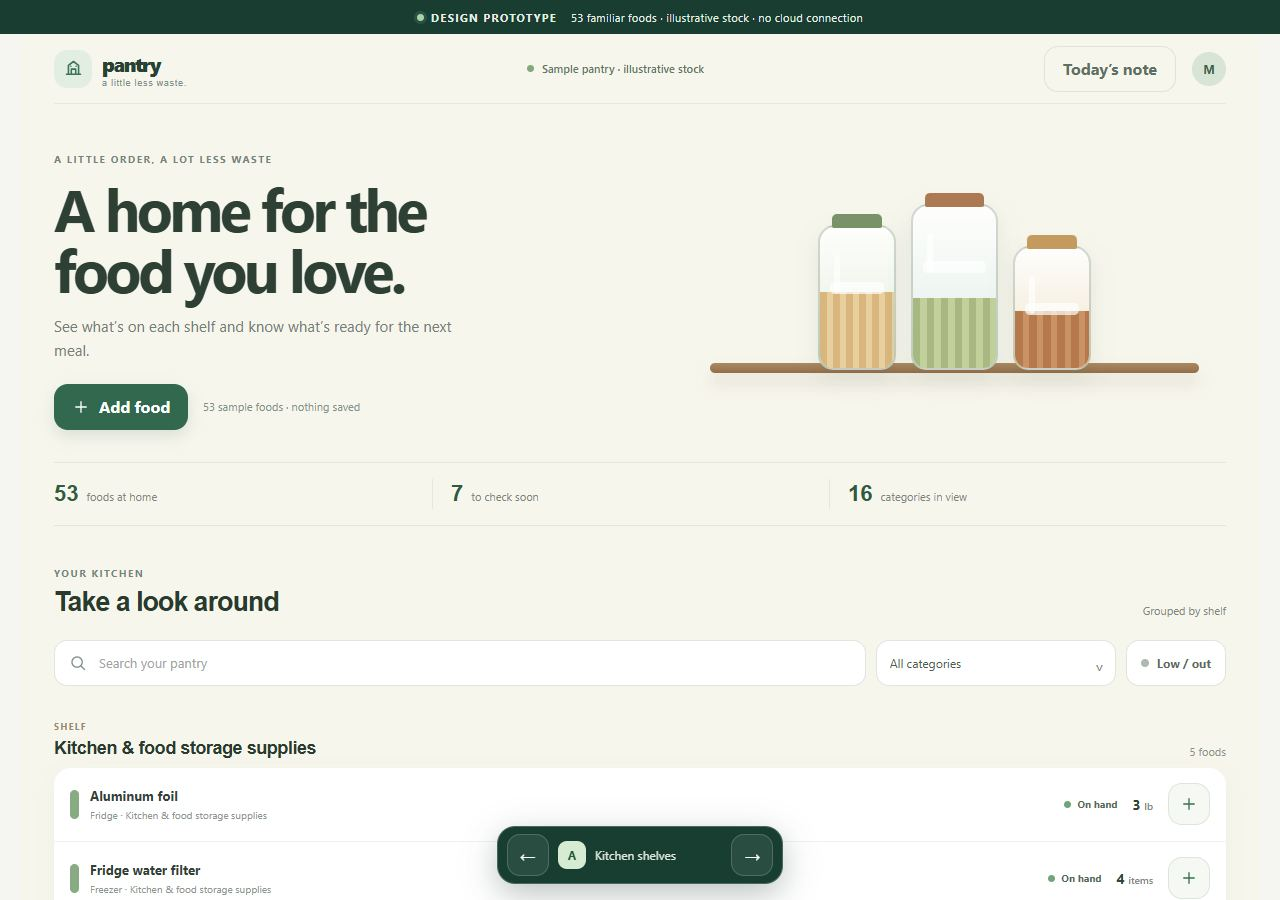
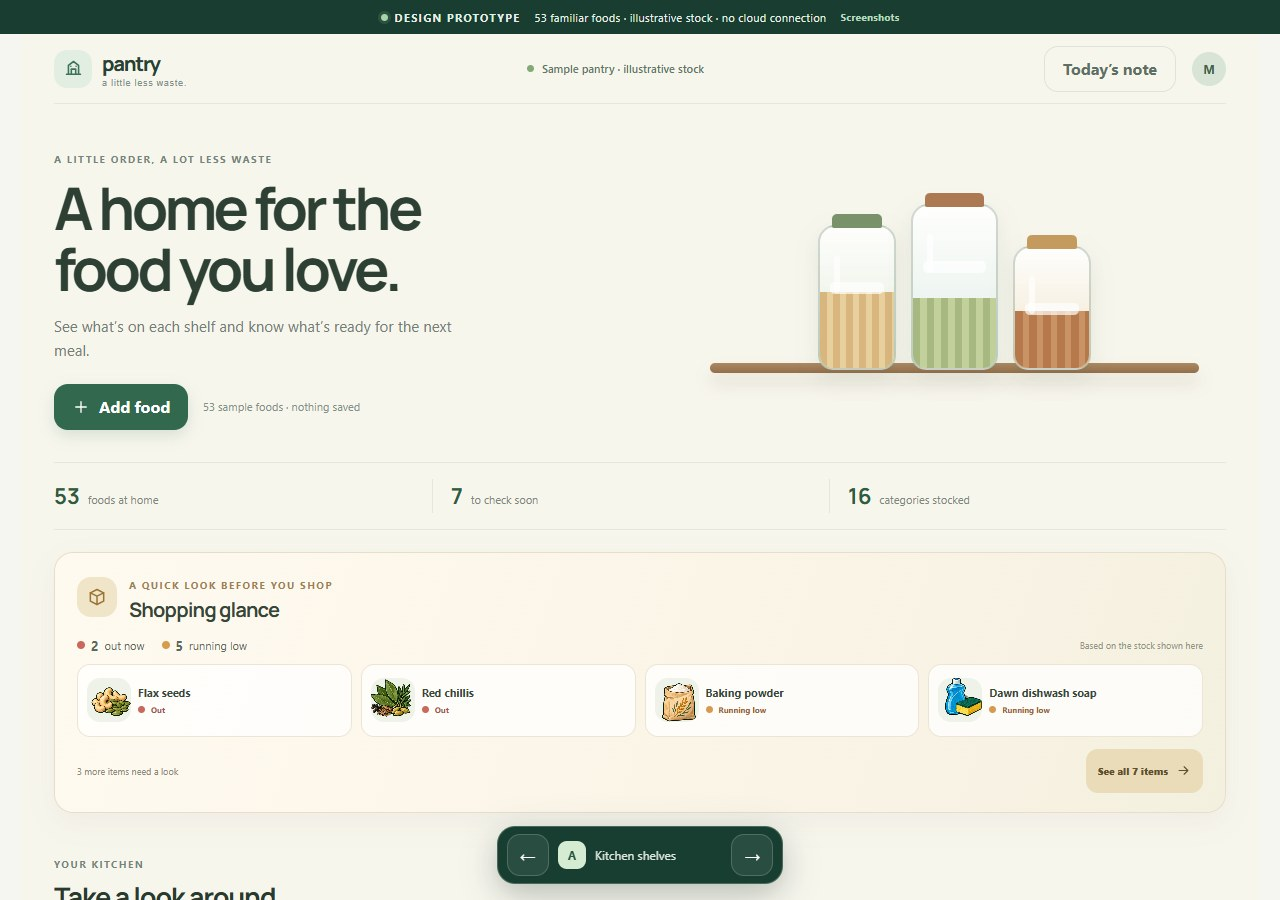
Polish Kitchen shelves shopping glance and illustrations

diff --git a/prototype/VariantA.tsx b/prototype/VariantA.tsx
@@ -2,15 +2,49 @@ import React from 'react';
 import type { PantryItem } from './types.ts';
 import { AddButton, AmountLabel, Brand, EmptyState, Filters, Icon, StatusPill, type VariantProps } from './ui.tsx';
 
-export const VariantA: React.FC<VariantProps> = ({ filtered, search, category, lowOnly, onSearch, onCategory, onLowOnly, onAdd, onRestock }) => {
+export const VariantA: React.FC<VariantProps> = ({ items: allItems, filtered, search, category, lowOnly, onSearch, onCategory, onLowOnly, onAdd, onRestock }) => {
   const groups = [...new Set(filtered.map((item) => item.category))];
+  const needsBuy = allItems.filter((item) => item.level !== 'ready');
+  const outNow = needsBuy.filter((item) => item.level === 'out');
+  const runningLow = needsBuy.filter((item) => item.level === 'low');
+  const glanceItems = [...outNow, ...runningLow].slice(0, 4);
+  const showAllNeeds = () => {
+    onSearch('');
+    onCategory('all');
+    if (needsBuy.length ? !lowOnly : lowOnly) onLowOnly();
+    window.setTimeout(() => document.getElementById('a-inventory')?.scrollIntoView({ behavior: 'smooth', block: 'start' }), 0);
+  };
   return <main className="variant-a">
     <header className="a-header"><Brand /><span className="sample-ribbon"><span />Sample pantry · illustrative stock</span><div className="a-header-actions"><button type="button" className="quiet-button">Today’s note</button><span className="avatar">M</span></div></header>
     <section className="a-welcome"><div><span className="eyebrow">A LITTLE ORDER, A LOT LESS WASTE</span><h1>A home for the<br />food you love.</h1><p>See what’s on each shelf and know what’s ready for the next meal.</p><div className="a-welcome-actions"><AddButton onClick={onAdd} /><span className="a-sample-caption">53 sample foods · nothing saved</span></div></div><div className="a-illustration" aria-hidden="true"><div className="jar jar-one"><i /><b /><span /></div><div className="jar jar-two"><i /><b /><span /></div><div className="jar jar-three"><i /><b /><span /></div><div className="shelf-line" /></div></section>
-    <section className="a-summary"><div><strong>53</strong><span>foods at home</span></div><div><strong>{filtered.filter((item) => item.level !== 'ready').length}</strong><span>to check soon</span></div><div><strong>{new Set(filtered.map((item) => item.category)).size}</strong><span>categories in view</span></div></section>
-    <section className="a-inventory"><div className="section-heading"><div><span className="eyebrow">YOUR KITCHEN</span><h2>Take a look around</h2></div><span className="sort-note">Grouped by shelf</span></div><Filters search={search} category={category} lowOnly={lowOnly} onSearch={onSearch} onCategory={onCategory} onLowOnly={onLowOnly} />
-      {filtered.length === 0 ? <EmptyState /> : groups.map((group) => { const items = filtered.filter((item) => item.category === group); return <section className="shelf-section" key={group}><div className="shelf-heading"><div><span className="shelf-kicker">SHELF</span><h3>{group}</h3></div><span>{items.length} {items.length === 1 ? 'food' : 'foods'}</span></div><div className="shelf-items">{items.map((item: PantryItem) => <article className="shelf-item" key={item.id}><div className="shelf-item-copy"><span className={`shelf-marker mark-${item.level}`} /><div><h4>{item.name}</h4><span>{item.location} · {item.category}</span></div></div><div className="shelf-item-stock"><StatusPill item={item} /><AmountLabel item={item} /><button type="button" className="round-action" aria-label={`Restock ${item.name}`} title="Add one locally" onClick={() => onRestock(item.id)}><Icon name="plus" /></button></div></article>)}</div><div className="shelf-board" /></section>; })}
+    <section className="a-summary"><div><strong>{allItems.length}</strong><span>foods at home</span></div><div><strong>{needsBuy.length}</strong><span>to check soon</span></div><div><strong>{new Set(allItems.map((item) => item.category)).size}</strong><span>categories stocked</span></div></section>
+    <section className="a-shopping-glance" aria-labelledby="a-shopping-title"><div className="glance-heading"><span className="glance-icon"><Icon name="box" size={20} /></span><div><span className="eyebrow">A QUICK LOOK BEFORE YOU SHOP</span><h2 id="a-shopping-title">Shopping glance</h2></div></div><div className="glance-status"><span><i className="out-dot" /><strong>{outNow.length}</strong> out now</span><span><i className="low-dot" /><strong>{runningLow.length}</strong> running low</span><span className="glance-caption">Based on the stock shown here</span></div>{needsBuy.length ? <div className="glance-items">{glanceItems.map((item) => <article className="glance-item" key={item.id}><ItemIllustration item={item} /><div className="glance-item-copy"><strong>{item.name}</strong><StatusPill item={item} /></div></article>)}</div> : <p className="glance-clear"><Icon name="check" size={16} />Everything looks stocked for now.</p>}<div className="glance-foot"><span>{needsBuy.length > glanceItems.length ? `${needsBuy.length - glanceItems.length} more item${needsBuy.length - glanceItems.length === 1 ? '' : 's'} need a look` : 'You’re up to date'}</span><button type="button" onClick={showAllNeeds}>{needsBuy.length ? `See all ${needsBuy.length} items` : 'See your pantry' }<Icon name="arrow" size={15} /></button></div></section>
+    <section className="a-inventory" id="a-inventory"><div className="section-heading"><div><span className="eyebrow">YOUR KITCHEN</span><h2>Take a look around</h2></div><span className="sort-note">Grouped by shelf</span></div><Filters search={search} category={category} lowOnly={lowOnly} onSearch={onSearch} onCategory={onCategory} onLowOnly={onLowOnly} />
+      {filtered.length === 0 ? <EmptyState /> : groups.map((group) => { const shelfItems = filtered.filter((item) => item.category === group); return <section className="shelf-section" key={group}><div className="shelf-heading"><div><span className="shelf-kicker">SHELF</span><h3>{group}</h3></div><span>{shelfItems.length} {shelfItems.length === 1 ? 'food' : 'foods'}</span></div><div className="shelf-items">{shelfItems.map((item: PantryItem) => <article className="shelf-item" key={item.id}><div className="shelf-item-copy"><span className={`shelf-marker mark-${item.level}`} /><ItemIllustration item={item} /><div><h4>{item.name}</h4><span>{item.location} · {item.category}</span></div></div><div className="shelf-item-stock"><StatusPill item={item} /><AmountLabel item={item} /><button type="button" className="round-action" aria-label={`Restock ${item.name}`} title="Add one locally" onClick={() => onRestock(item.id)}><Icon name="plus" /></button></div></article>)}</div><div className="shelf-board" /></section>; })}
     </section>
     <footer className="a-footer"><Brand /><span>Good food, accounted for.</span></footer>
   </main>;
+};
+
+const illustrationIndex: Record<string, number> = {
+  Vegetables: 8, Fruit: 5, 'Rice & grains': 1, Millets: 1, 'Dals & beans': 9,
+  'Atta & flours': 0, 'Rava & semolina': 0, 'Pasta & noodles': 2,
+  'Baking & dessert ingredients': 0, 'Whole spices & herbs': 11,
+  'Ground spices & masalas': 3, 'Oils & ghee': 6,
+  'Pickles, chutneys & condiments': 3, 'Sugar, jaggery & sweeteners': 6,
+  'Nuts & seeds': 4, 'Dried fruit': 5, 'Bread & bakery': 7,
+  'Dairy & eggs': 10, 'Meat & poultry': 10, 'Fish & seafood': 10,
+  'Plant-based proteins': 9, 'Packaged meals': 1, 'Snacks & sweets': 7,
+  Drinks: 6, 'Kitchen & food storage supplies': 13, 'Cleaning & laundry': 12,
+  'Personal care': 14, 'Household essentials': 15,
+};
+const itemIllustrationIndex: Record<string, number> = {
+  'Cocoa powder': 6, 'Custard powder': 6, Falooda: 6, Honey: 6,
+  Jaggery: 6, Mishri: 6,
+};
+
+const ItemIllustration: React.FC<{ item: PantryItem }> = ({ item }) => {
+  const index = itemIllustrationIndex[item.name] ?? illustrationIndex[item.category];
+  const position = index === undefined ? 'center' : `${(index % 4) * (100 / 3)}% ${Math.floor(index / 4) * (100 / 3)}%`;
+  return <span className="item-illustration" aria-hidden="true"><span className="item-illustration-sprite" style={{ backgroundPosition: position, backgroundImage: index === undefined ? 'none' : undefined }} /><span className="item-illustration-fallback"><Icon name={item.category.includes('Kitchen') || item.category.includes('Cleaning') ? 'box' : 'spark'} size={19} /></span></span>;
 };

diff --git a/prototype/prototype.css b/prototype/prototype.css
@@ -88,4 +88,7 @@ svg{display:block;flex:none}
 .gallery-old{display:block;margin-top:8px;font-size:11px}.shot-live-link{display:inline-block;margin:-2px 0 8px;font-size:10px}.shot-grid{grid-template-columns:repeat(3,minmax(0,1fr));align-items:start}.shot-grid article{padding:13px}.shot-grid h2{margin-bottom:5px}.shot-grid img{margin-bottom:8px}.shot-gallery{background:#f3f5f1;min-height:100vh}.shot-gallery h1{color:#20372c}@media(max-width:850px){.shot-grid{grid-template-columns:repeat(2,minmax(0,1fr))}}@media(max-width:560px){.shot-grid{grid-template-columns:1fr}.shot-grid img:last-child{max-width:220px}}
 .d-restock{width:44px;height:44px}.e-row-actions button{width:44px;height:44px}.e-check-item button{width:44px;height:44px}.theme-e .search-box,.e-low-filter{min-height:44px}.f-toolbar .search-box,.f-select,.f-attention{min-height:44px;height:auto}.f-select{height:44px}.f-attention{height:44px}
 @media(max-width:760px){.d-stock-line{grid-template-columns:23px minmax(0,1fr) 66px 44px}.d-restock{width:44px;height:44px}.e-food-row{grid-template-columns:8px minmax(70px,1fr) 48px 50px 94px;gap:4px;min-height:61px}.e-row-actions{gap:4px}.e-row-actions button{width:44px;height:44px}.e-check-item button{width:44px;height:44px}.f-select,.f-attention,.f-toolbar .search-box{min-height:44px;height:44px}}
+.a-shopping-glance{margin:22px 0 4px;padding:19px 22px;border:1px solid #e8ddc8;border-radius:19px;background:linear-gradient(108deg,#fffaf0 0%,#fbf5e8 54%,#f4f0df 100%);box-shadow:0 10px 28px rgba(92,78,48,.055)}.glance-heading{display:flex;align-items:center;gap:12px}.glance-icon{width:40px;height:40px;display:grid;place-items:center;border-radius:14px;background:#f1e5c9;color:#9a7234}.glance-heading>div{flex:1}.glance-heading .eyebrow{color:#9b8151}.glance-heading h2{margin:3px 0 0;color:#364638;font:700 20px Manrope,sans-serif;letter-spacing:-.04em}.glance-list-count{padding:7px 10px;border:1px solid #e5d8bd;border-radius:999px;color:#79643e;background:#fffdf8;font-size:10px;font-weight:700}.glance-status{margin:14px 0 10px;display:flex;align-items:center;gap:17px;color:#59695b;font-size:11px}.glance-status>span{display:inline-flex;align-items:center;gap:6px}.glance-status>span strong{font-size:13px}.glance-status i{width:8px;height:8px;border-radius:50%;background:#c9695b}.glance-status i.low-dot{background:#d59d4c}.glance-caption{margin-left:auto;color:#929586;font-size:9px}.glance-items{display:grid;grid-template-columns:repeat(4,minmax(0,1fr));gap:9px}.glance-item{min-width:0;min-height:73px;padding:9px;display:grid;grid-template-columns:44px minmax(0,1fr);align-items:center;gap:7px;border:1px solid #ece5d5;border-radius:13px;background:rgba(255,255,255,.76)}.glance-item-copy{min-width:0;display:grid;gap:4px}.glance-item-copy>strong{overflow:hidden;text-overflow:ellipsis;white-space:nowrap;color:#38493c;font-size:11px}.glance-item-copy .status-pill{font-size:8px}.glance-add{min-width:46px;min-height:44px;padding:0 8px;display:inline-flex;align-items:center;justify-content:center;gap:4px;border:1px solid #d9e5d6;border-radius:11px;background:#f7faf3;color:#45704d;font-size:9px;font-weight:700}.glance-add.added{border-color:#b9d0b2;background:#eaf3e6;color:#35623e}.glance-clear{min-height:52px;display:flex;align-items:center;gap:8px;color:#4c7654;font-size:12px}.glance-foot{margin-top:12px;display:flex;align-items:center;justify-content:space-between;gap:12px;color:#8e8a78;font-size:9px}.glance-foot button{min-height:44px;padding:0 12px;display:flex;align-items:center;gap:8px;border:0;border-radius:12px;background:#eadbb9;color:#614f2d;font-size:10px;font-weight:800}.glance-foot button:hover{background:#e3cf9f}.item-illustration{position:relative;width:44px;height:44px;display:grid;place-items:center;flex:none;overflow:hidden;border-radius:13px;background:#eef2e8;color:#6d8b67}.item-illustration-sprite{position:absolute;inset:0;z-index:1;background-image:url('/prototype-shots/pantry-items.png');background-repeat:no-repeat;background-size:400% 400%}.item-illustration-fallback{display:grid;place-items:center}.shelf-item .item-illustration{width:46px;height:46px;border:1px solid #edf0e6;border-radius:15px;background:#f3f5ec}.shelf-item-copy .shelf-marker{height:34px}.shelf-item-copy{gap:9px}.shelf-item{min-height:83px;padding:12px 16px}.shelf-item-stock .round-action{width:44px;height:44px;border-radius:15px}.shelf-item-stock{gap:12px}
+@media(max-width:760px){.a-shopping-glance{margin:17px 0 0;padding:14px;border-radius:16px}.glance-heading{gap:8px}.glance-icon{width:36px;height:36px}.glance-heading h2{font-size:17px}.glance-heading .eyebrow{font-size:8px}.glance-list-count{padding:6px 8px;font-size:8px;white-space:nowrap}.glance-status{margin:11px 0 9px;gap:10px;flex-wrap:wrap;font-size:9px}.glance-status>span strong{font-size:11px}.glance-caption{flex-basis:100%;margin-left:0;font-size:8px}.glance-items{grid-template-columns:repeat(2,minmax(0,1fr));gap:7px}.glance-item{min-height:69px;padding:7px;grid-template-columns:38px minmax(0,1fr);gap:5px;border-radius:11px}.glance-item .item-illustration{width:38px;height:38px;border-radius:12px}.glance-item-copy>strong{font-size:9px}.glance-item-copy .status-pill{font-size:7px}.glance-add{min-width:40px;min-height:44px;padding:0 5px;border-radius:10px;font-size:8px}.glance-foot{margin-top:9px;font-size:8px}.glance-foot button{min-height:44px;padding:0 9px;font-size:9px;white-space:nowrap}.shelf-item{min-height:76px;padding:9px 8px;gap:7px}.shelf-item-copy,.shelf-item-stock{gap:6px}.shelf-item .item-illustration{width:38px;height:38px;border-radius:12px}.shelf-marker{width:6px;min-width:6px;height:30px}.shelf-item-copy h4{font-size:10px}.shelf-item-copy span:not(.shelf-marker){font-size:8px}.shelf-item-stock{gap:5px}.shelf-item-stock .status-pill{display:none}.shelf-item-stock .amount-label{font-size:11px}.shelf-item-stock .round-action{width:44px;min-width:44px;height:44px;border-radius:14px}}
+@media(max-width:760px){.glance-heading>div{min-width:0}.glance-items{grid-template-columns:repeat(2,minmax(0,1fr))}.glance-item{grid-template-columns:38px minmax(0,1fr)}.glance-item .item-illustration{width:38px;height:38px}}
 .theme-d .add-modal{border:1px solid #6a6048;border-radius:8px;background:#2a2b25;color:#f5f0e3;font-family:Outfit,system-ui,sans-serif}.theme-d .modal-head h2{color:#fff;font-family:Outfit,system-ui,sans-serif}.theme-d .field-label{color:#d2ccbd}.theme-d .field-label input,.theme-d .field-label select{border-color:#5c5b50;border-radius:5px;background:#20211f;color:#fff}.theme-d .prototype-note{border-radius:4px;background:#36372f;color:#bcb5a5}.theme-d .secondary-button,.theme-d .close-button{border:1px solid #5d5b50;border-radius:5px;background:#383930;color:#f5f0e3}.theme-d .add-modal .primary-button{border-radius:5px;background:#f4b63f;color:#242520;box-shadow:none}.theme-e .add-modal{border:1px solid #d5e2d7;border-radius:20px;background:#f9fbf8;color:#193c32;font-family:Manrope,system-ui,sans-serif}.theme-e .modal-head h2{color:#214b3d;font-family:Manrope,system-ui,sans-serif}.theme-e .field-label{color:#466453}.theme-e .field-label input,.theme-e .field-label select{border-color:#d5e2d7;border-radius:10px;background:#fff;color:#193c32}.theme-e .prototype-note{border-radius:10px;background:#e6f0e6;color:#67826f}.theme-e .secondary-button,.theme-e .close-button{border:1px solid #d4e2d6;border-radius:10px;background:#edf4ed;color:#4d6e57}.theme-e .add-modal .primary-button{border-radius:999px;background:#214b3d;box-shadow:none}.theme-f .add-modal{border:1px solid #dce4f1;border-radius:9px;background:#fff;color:#172333;font-family:'Space Grotesk',system-ui,sans-serif}.theme-f .modal-head h2{color:#172333;font-family:'Space Grotesk',system-ui,sans-serif}.theme-f .field-label{color:#4f6078}.theme-f .field-label input,.theme-f .field-label select{border-color:#dce3ee;border-radius:5px;background:#fff;color:#172333}.theme-f .prototype-note{border-radius:5px;background:#f0f4fb;color:#6d7c93}.theme-f .secondary-button,.theme-f .close-button{border:1px solid #dce3ee;border-radius:5px;background:#f6f8fb;color:#53657e}.theme-f .add-modal .primary-button{border-radius:5px;background:#275dde;box-shadow:none}
